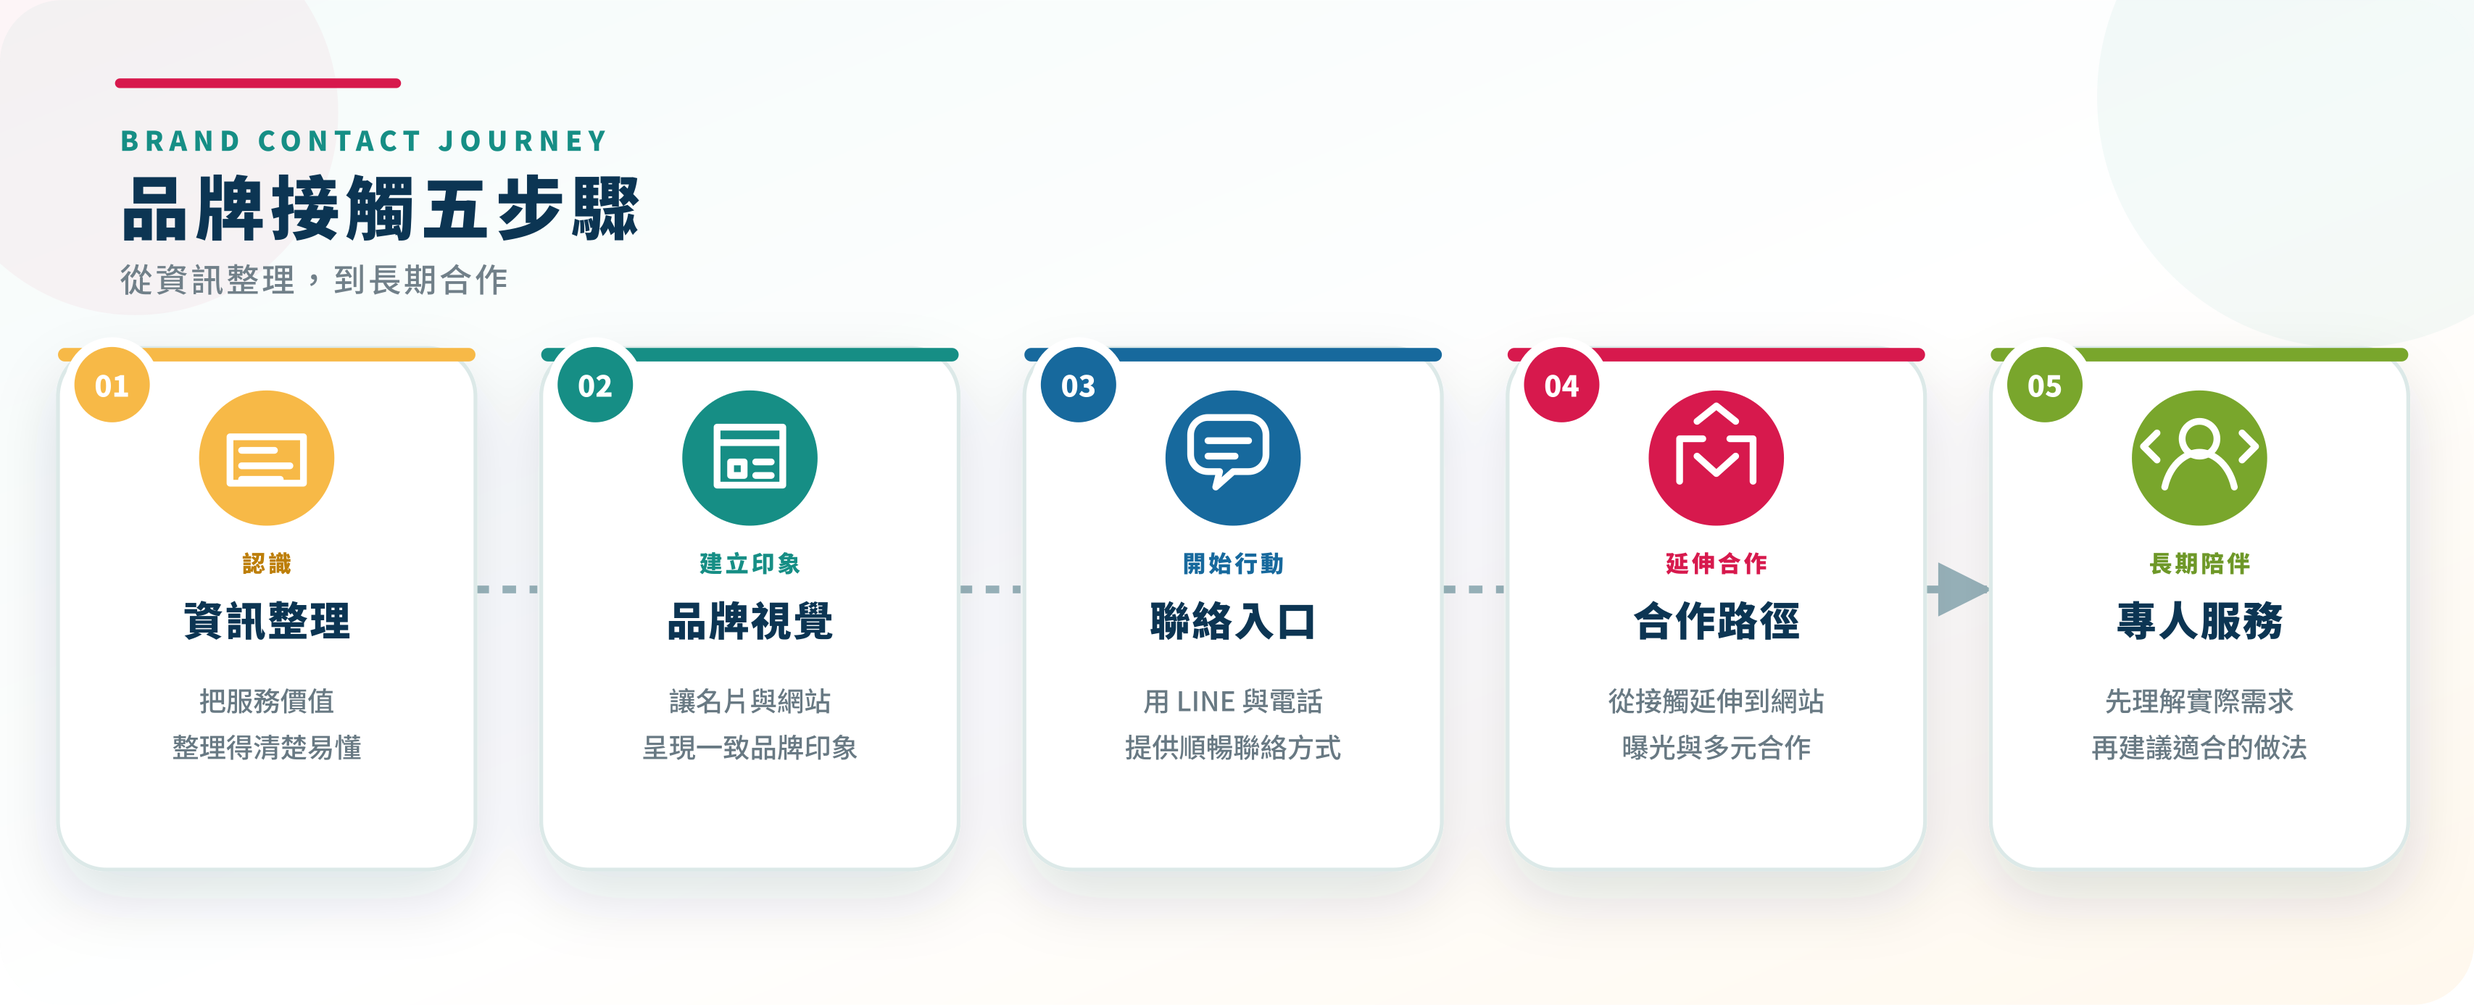
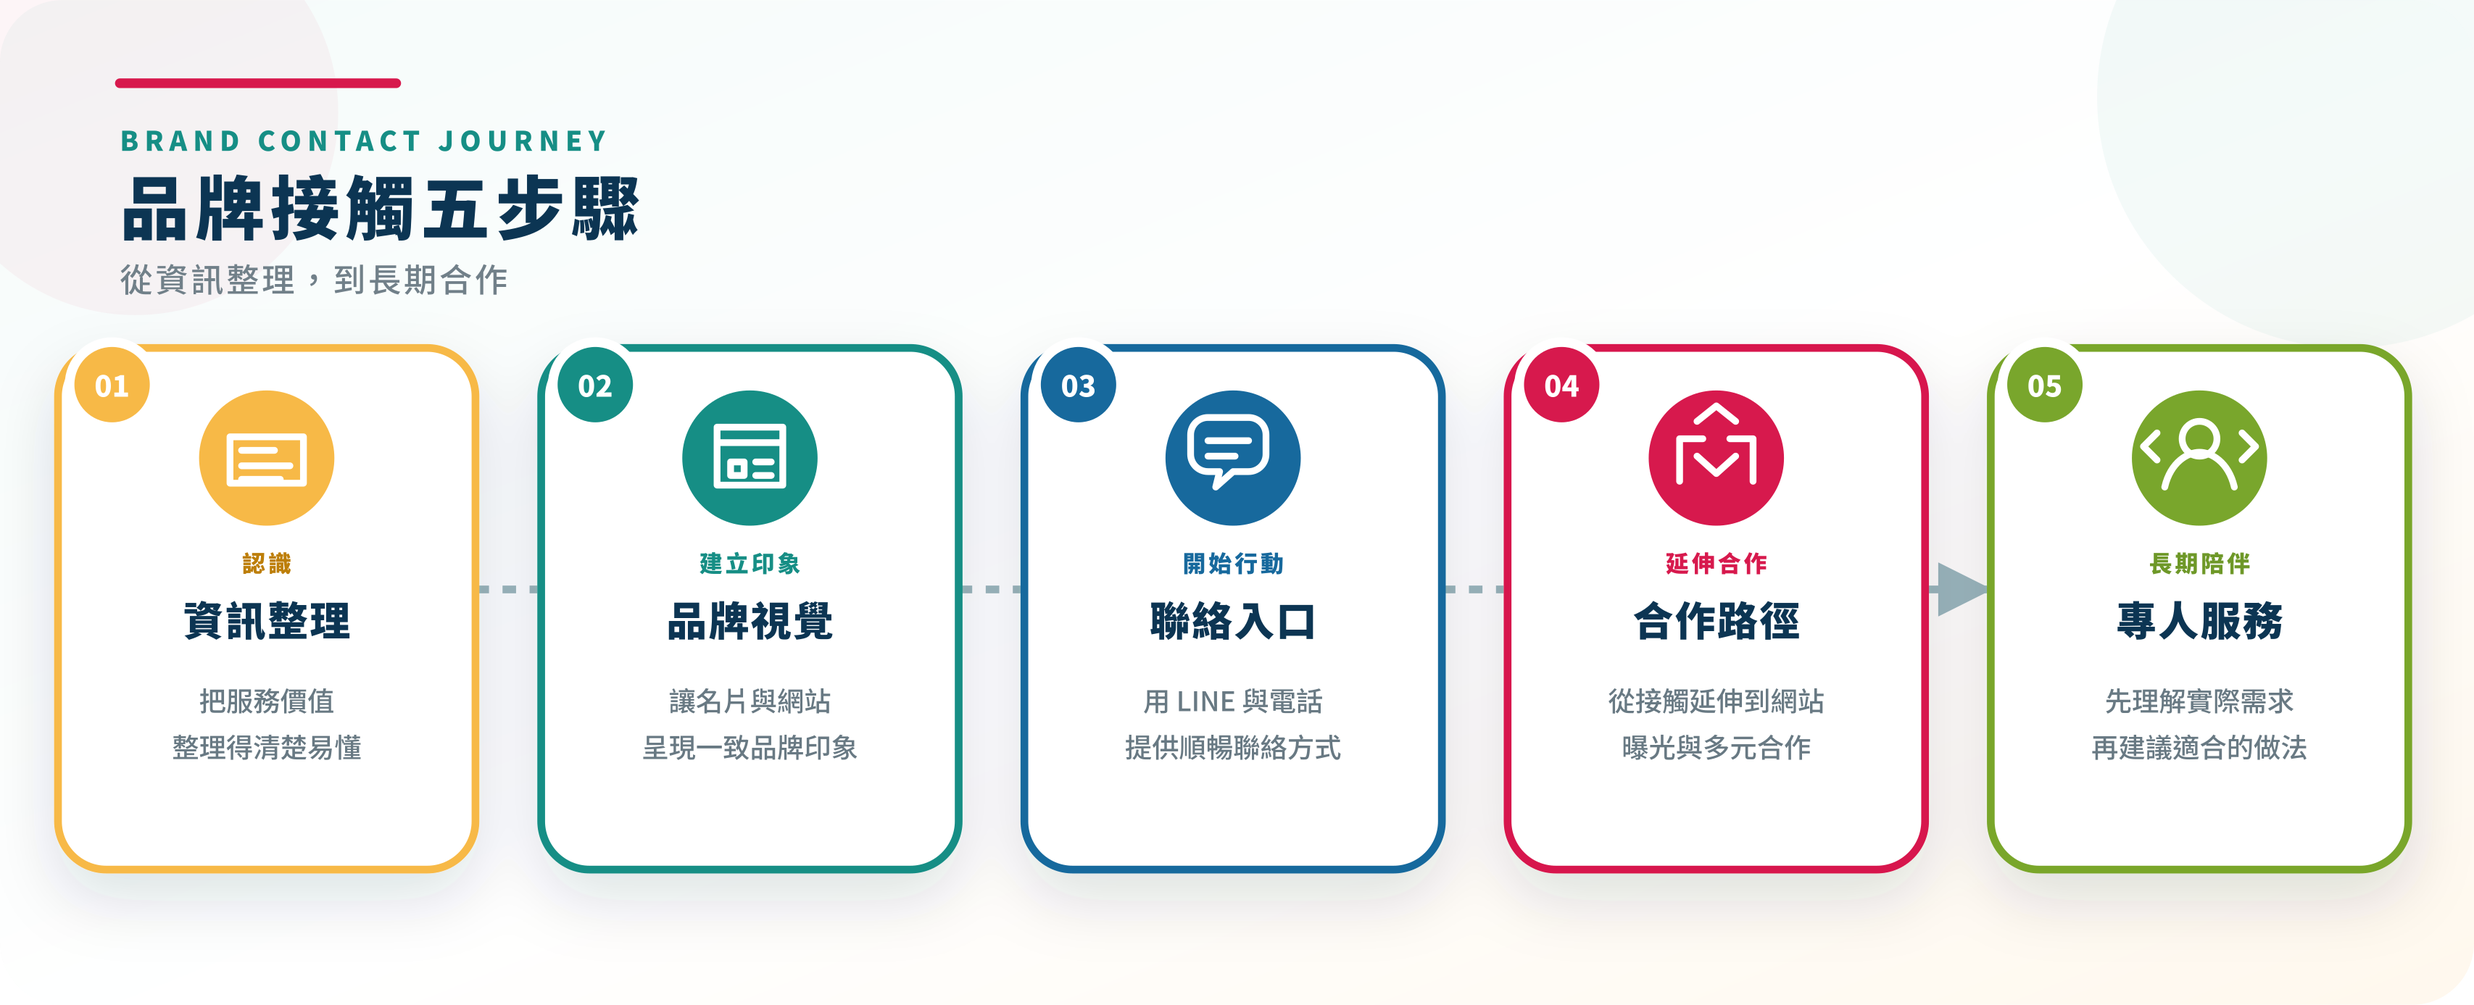
Add responsive diagram previews

diff --git a/styles.css b/styles.css
@@ -65,7 +65,7 @@
 .inner-hero{text-align:center;padding:125px 24px 110px;background:#f7f9f8}.inner-hero h1{max-width:1100px;margin-left:auto;margin-right:auto}.inner-hero>p{margin-left:auto;margin-right:auto}.service-hero,.partner-hero{min-height:650px;padding-top:110px;padding-bottom:110px}.cta-panel{border-radius:0;margin:0;padding:90px 30px}
 @media(max-width:1050px){.site-header>.primary.small{align-self:auto;border-radius:999px;padding:10px 18px}.tracker-hero{height:700px;min-height:700px}.tracker-hero-copy{padding-top:135px}.outline-title{font-size:70px}.one-view-grid{grid-template-columns:repeat(3,1fr)}.one-view-grid article:nth-child(3){border-right:0}.one-view-grid article{border-bottom:1px solid #e4e9e9}.case-showcase{grid-template-columns:1fr}.service-counter{grid-template-columns:repeat(2,1fr);gap:45px 0}.service-counter div:nth-child(2){border-right:0}}
 @media(max-width:680px){.tracker-hero{height:640px;min-height:640px}.tracker-hero-copy{padding-top:105px}.outline-title{font-size:43px;-webkit-text-stroke:1px #158f88}.tracker-hero h1{font-size:19px;line-height:1.7}.tracker-hero p{font-size:12px}.service-skyline{left:4%;right:4%;gap:7vw}.service-skyline span{width:45px;height:calc(var(--h) * .68)!important}.news-strip{grid-template-columns:92px 1fr;padding-right:15px}.news-strip strong{padding-left:20px}.news-strip span{padding-left:14px}.news-strip p,.news-strip button{display:none}.section-heading span{font-size:25px}.one-view-grid{grid-template-columns:1fr}.one-view-grid article{border-right:0}.case-showcase{padding:70px 20px}.case-visual{height:280px}.case-copy h2{font-size:34px}.service-counter{grid-template-columns:1fr 1fr;padding:70px 20px}.service-counter strong{font-size:50px}.service-counter span{font-size:13px}}
-@media(max-width:680px){.journey-flow-figure{margin-top:38px;overflow-x:auto;border-radius:18px}.journey-flow-figure img{width:1100px;max-width:none}.journey-flow-figure figcaption{position:sticky;left:0;width:100%;text-align:left}.mobile-flow-hint{display:block;margin-top:3px;color:#168e85;font-weight:700}}
+@media(max-width:680px){.journey-flow-figure{margin-top:38px;overflow:hidden;border-radius:18px}.journey-flow-figure img{width:100%;max-width:100%}.journey-flow-figure figcaption{position:static;width:auto;text-align:center}}
 
 /* V2.1: use the supplied PNG logo exactly and add generated website photography */
 .brand{height:58px;gap:7px;overflow:visible}
@@ -172,7 +172,7 @@
 .legal-visual strong{font-size:25px;margin-top:25px;position:relative;z-index:2}.legal-visual small{font-size:11px;letter-spacing:.2em;opacity:.72;position:relative;z-index:2}
 @media(max-width:1050px){.page-hero{padding-top:75px;padding-bottom:80px}.page-hero-media{height:430px;transform:none}.legal-visual{height:380px}}
 @media(max-width:680px){.page-hero{padding:58px 20px 64px;gap:38px}.page-hero-copy:before{width:58px;margin-bottom:20px}.page-hero-copy h1{font-size:41px}.page-hero-copy>p{font-size:16px}.hero-tags{margin-bottom:25px}.page-hero-media{height:300px;border-width:6px;border-radius:24px 7px 24px 7px}.legal-hero{padding-top:58px;padding-bottom:64px}.legal-visual{height:300px;border-radius:26px 8px 26px 8px}.legal-icon{width:92px;height:92px;font-size:34px}.legal-visual strong{font-size:20px}}
-@media(max-width:680px){.card-process-figure{margin-top:32px;overflow-x:auto;border-radius:18px}.card-process-figure img{width:790px;max-width:none}.card-process-figure figcaption{position:sticky;left:0;width:100%;text-align:left}.card-process-figure figcaption span{display:block;margin-top:3px;color:#168e85;font-weight:700}}
+@media(max-width:680px){.card-process-figure{margin-top:32px;overflow:hidden;border-radius:18px}.card-process-figure img{width:100%;max-width:100%}.card-process-figure figcaption{position:static;width:auto;text-align:center}}
 
 /* V2.9: image-led website feature cards with readable HTML copy */
 .website-feature-gallery{width:min(1180px,100%);margin:48px auto 0;display:grid;grid-template-columns:repeat(2,minmax(0,1fr));gap:24px}
@@ -212,7 +212,7 @@
 .exposure-process-figure img{display:block;width:100%;height:auto}
 .exposure-process-figure figcaption{padding:13px 20px;text-align:center;color:#6f7d83;background:#fff;font-size:12px;letter-spacing:.04em}
 .exposure-process-figure figcaption span{display:none}
-@media(max-width:680px){.exposure-process-figure{margin-top:32px;overflow-x:auto;border-radius:18px}.exposure-process-figure img{width:820px;max-width:none}.exposure-process-figure figcaption{position:sticky;left:0;width:100%;text-align:left}.exposure-process-figure figcaption span{display:block;margin-top:3px;color:#168e85;font-weight:700}}
+@media(max-width:680px){.exposure-process-figure{margin-top:32px;overflow:hidden;border-radius:18px}.exposure-process-figure img{width:100%;max-width:100%}.exposure-process-figure figcaption{position:static;width:auto;text-align:center}}
 
 /* V3.2: use the approved company logo as the partner-network hub */
 .center-node{padding:25px;background:white;border:3px solid rgba(8,112,74,.22);color:inherit;font-size:0;overflow:hidden}
@@ -233,4 +233,22 @@
 .service-journey-section{padding:86px clamp(24px,7vw,110px);background:linear-gradient(145deg,#061b2b,#0c3553)}
 .service-journey-figure{width:min(1280px,100%);margin:0 auto;overflow:hidden;border:1px solid rgba(255,255,255,.12);border-radius:30px;background:#071f31;box-shadow:0 30px 80px rgba(0,19,31,.34)}
 .service-journey-figure img{display:block;width:100%;height:auto}
-@media(max-width:680px){.service-journey-section{padding:52px 20px}.service-journey-figure{overflow-x:auto;border-radius:20px}.service-journey-figure img{width:900px;max-width:none}}
+@media(max-width:680px){.service-journey-section{padding:52px 20px}.service-journey-figure{overflow:hidden;border-radius:20px}.service-journey-figure img{width:100%;max-width:100%}}
+
+/* V3.6: responsive diagrams with a full-screen zoom preview */
+.diagram-preview-trigger{cursor:zoom-in}
+.diagram-preview-trigger:focus-visible{outline:4px solid var(--gold);outline-offset:4px}
+.diagram-lightbox{width:min(96vw,1440px);max-width:none;height:min(92dvh,940px);max-height:none;padding:0;border:0;border-radius:24px;background:#fff;box-shadow:0 30px 100px rgba(0,19,31,.45);overflow:hidden}
+.diagram-lightbox::backdrop{background:rgba(3,18,29,.82);backdrop-filter:blur(5px)}
+.diagram-lightbox-shell{height:100%;display:flex;flex-direction:column}
+.diagram-lightbox-toolbar{min-height:58px;padding:0 18px 0 24px;display:flex;align-items:center;justify-content:space-between;gap:16px;border-bottom:1px solid #dce6e8;background:#fff;color:var(--navy)}
+.diagram-lightbox-toolbar>div{display:flex;align-items:center;gap:10px}
+.diagram-zoom-toggle,.diagram-lightbox-close{border:0;cursor:pointer;font:inherit;font-weight:800}
+.diagram-zoom-toggle{padding:9px 18px;border-radius:999px;background:#eaf5f3;color:#08704a}
+.diagram-lightbox-close{width:40px;height:40px;border-radius:50%;background:#edf3f5;color:var(--navy);font-size:27px;line-height:1}
+.diagram-lightbox-stage{flex:1;min-height:0;padding:18px;display:flex;align-items:center;justify-content:center;overflow:auto;background:#eef4f5;scrollbar-width:none;overscroll-behavior:contain}
+.diagram-lightbox-stage::-webkit-scrollbar{display:none}
+.diagram-lightbox-stage img{display:block;width:100%;height:100%;max-width:100%;max-height:100%;object-fit:contain;cursor:zoom-in;touch-action:pan-x pan-y pinch-zoom}
+.diagram-lightbox-stage.is-zoomed{display:block}
+.diagram-lightbox-stage.is-zoomed img{width:1280px;height:auto;max-width:none;max-height:none;object-fit:initial;cursor:zoom-out}
+@media(max-width:680px){.diagram-lightbox{width:100vw;height:100dvh;border-radius:0}.diagram-lightbox-toolbar{min-height:54px;padding:0 12px 0 16px}.diagram-lightbox-toolbar strong{font-size:15px}.diagram-zoom-toggle{padding:8px 15px}.diagram-lightbox-close{width:38px;height:38px}.diagram-lightbox-stage{padding:10px}.diagram-lightbox-stage.is-zoomed img{width:1100px}}

diff --git a/index.html b/index.html
@@ -6,7 +6,7 @@
   <title>辰漮國際｜網站全頁草稿</title>
   <meta name="description" content="辰漮國際有限公司網站七頁視覺草稿">
   <!-- Search Console 正式驗證碼取得後，於此加入 google-site-verification meta。 -->
-  <link rel="stylesheet" href="styles.css?v=3.5">
+  <link rel="stylesheet" href="styles.css?v=3.6">
 </head>
 <body>
   <header class="site-header">
@@ -56,7 +56,6 @@
         <div class="section-heading"><span>ONE VIEW</span><h2>我們從品牌成長的角度思考</h2><p>不只做出工具，更讓每一個接觸點都有下一步。</p></div>
         <figure class="journey-flow-figure">
           <img src="diagram/brand-contact-flow/brand-contact-flow.svg" alt="辰漮國際品牌接觸流程圖：從資訊整理、品牌視覺、聯絡入口、合作路徑到專人服務，共五個步驟">
-          <figcaption>品牌接觸五步驟：從資訊整理，到長期合作。<span class="mobile-flow-hint">左右滑動查看完整流程 →</span></figcaption>
         </figure>
         <div class="center-action"><button class="outline-button" data-page-link="about">關於辰漮</button></div>
       </section>
@@ -87,7 +86,7 @@
     <section class="page" data-page="card">
       <div class="service-hero page-hero card-theme"><div class="page-hero-copy"><span class="eyebrow">DIGITAL BUSINESS CARD</span><h1>一張名片，<br><em>裝下完整的專業。</em></h1><p>不用安裝 App，掃描或點擊就能查看聯絡方式、服務資訊與社群連結。</p><div class="hero-tags"><span>免安裝</span><span>快速分享</span><span>集中資訊</span></div><button class="primary" data-page-link="cases">諮詢電子名片</button></div><figure class="service-photo page-hero-media"><img src="service-digital-card.png" alt="商務交流時展示電子名片的使用情境"><figcaption>電子名片情境示意</figcaption></figure></div>
       <section class="section"><div class="section-heading"><span>ONE CARD, MORE POSSIBILITIES</span><h2>讓客戶更快找到需要的資訊</h2></div><div class="feature-grid"><article><div class="icon">聯</div><h3>整合聯絡方式</h3><p>電話、LINE、Email 與社群集中呈現。</p></article><article><div class="icon">分</div><h3>隨時方便分享</h3><p>連結與 QR Code 都能快速傳遞。</p></article><article><div class="icon">牌</div><h3>呈現品牌形象</h3><p>統一色彩、文字與服務介紹。</p></article></div></section>
-      <section class="section soft"><div class="section-heading"><span>PROCESS</span><h2>製作流程</h2></div><figure class="card-process-figure"><img src="diagram/digital-card-process/digital-card-process.svg" alt="多頁式電子名片製作流程：提供資料、版面設計、確認修改、交付使用"><figcaption>多頁式電子名片四步驟製作流程<span>手機可左右滑動查看完整流程 →</span></figcaption></figure></section>
+      <section class="section soft"><div class="section-heading"><span>PROCESS</span><h2>製作流程</h2></div><figure class="card-process-figure"><img src="diagram/digital-card-process/digital-card-process.svg" alt="多頁式電子名片製作流程：提供資料、版面設計、確認修改、交付使用"><figcaption>多頁式電子名片四步驟製作流程</figcaption></figure></section>
     </section>
 
     <section class="page" data-page="website">
@@ -99,7 +98,7 @@
     <section class="page" data-page="exposure">
       <div class="service-hero page-hero exposure-theme"><div class="page-hero-copy"><span class="eyebrow">CHANNEL EXPOSURE</span><h1>讓好的服務，<br><em>被更多對的人看見。</em></h1><p>透過夥伴商店與合作通路，增加品牌、產品與服務的接觸機會。</p><div class="hero-tags"><span>夥伴商店</span><span>通路串連</span><span>精準接觸</span></div><button class="primary" data-page-link="cases">洽詢曝光合作</button></div><figure class="service-photo page-hero-media"><img src="channel-exposure.png" alt="品牌串連數位平台、實體商店與顧客接觸點的通路曝光情境"><figcaption>多通路曝光情境示意</figcaption></figure></div>
       <section class="section"><div class="exposure-map"><div class="center-node"><img src="logo-color-symbol.png" alt="辰漮國際彩色 Logo" width="124" height="124"></div><div class="node n1"><svg aria-hidden="true" viewBox="0 0 24 24"><path d="M3 9l2-5h14l2 5M5 9v11h14V9M9 20v-6h6v6M3 9c1.2 2 3.8 2 5 0 1.2 2 3.8 2 5 0 1.2 2 3.8 2 5 0 1.2 2 2.4 1.4 3 0"/></svg><strong>品牌商家</strong></div><div class="node n2"><svg aria-hidden="true" viewBox="0 0 24 24"><circle cx="12" cy="8" r="3"/><path d="M5 20c0-4.2 3.1-7 7-7s7 2.8 7 7M17 4l.7 1.4 1.6.2-1.2 1.1.3 1.6L17 7.5l-1.4.8.3-1.6-1.2-1.1 1.6-.2z"/></svg><strong>美安店主</strong></div><div class="node n3"><svg aria-hidden="true" viewBox="0 0 24 24"><circle cx="9" cy="9" r="3"/><circle cx="17" cy="10" r="2.5"/><path d="M2.5 20c0-4.2 2.9-7 6.5-7s6.5 2.8 6.5 7M14.5 14c.8-.7 1.7-1 2.8-1 2.8 0 4.7 2.4 4.7 5.5"/></svg><strong>顧客社群</strong></div><div class="node n4"><svg aria-hidden="true" viewBox="0 0 24 24"><rect x="5" y="3" width="14" height="18" rx="1"/><path d="M9 7h2M14 7h2M9 11h2M14 11h2M9 15h2M14 15h2M10 21v-3h4v3"/></svg><strong>合作場館</strong></div><svg aria-hidden="true" viewBox="0 0 800 420"><line x1="400" y1="210" x2="140" y2="90"/><line x1="400" y1="210" x2="660" y2="90"/><line x1="400" y1="210" x2="140" y2="330"/><line x1="400" y1="210" x2="660" y2="330"/></svg></div></section>
-      <section class="section soft"><div class="section-heading"><span>HOW IT WORKS</span><h2>通路曝光三步驟</h2></div><figure class="exposure-process-figure"><img src="diagram/channel-exposure-process/channel-exposure-process.svg" alt="通路曝光三步驟流程圖：確認適合對象、整理曝光內容、媒合合作通路"><figcaption>從確認目標客群、準備曝光素材，到串連適合的合作通路。<span>手機可左右滑動查看完整流程 →</span></figcaption></figure></section>
+      <section class="section soft"><div class="section-heading"><span>HOW IT WORKS</span><h2>通路曝光三步驟</h2></div><figure class="exposure-process-figure"><img src="diagram/channel-exposure-process/channel-exposure-process.svg" alt="通路曝光三步驟流程圖：確認適合對象、整理曝光內容、媒合合作通路"><figcaption>從確認目標客群、準備曝光素材，到串連適合的合作通路。</figcaption></figure></section>
     </section>
 
     <section class="page" data-page="partner">
@@ -160,9 +159,19 @@
     <div class="footer-bottom"><span>© 辰漮國際有限公司</span><div class="footer-legal"><button data-page-link="privacy">隱私權政策</button><i>｜</i><button data-page-link="terms">網站使用條款</button></div></div>
   </footer>
 
+  <dialog class="diagram-lightbox" id="diagram-lightbox" aria-labelledby="diagram-lightbox-title">
+    <div class="diagram-lightbox-shell">
+      <div class="diagram-lightbox-toolbar">
+        <strong id="diagram-lightbox-title">流程圖預覽</strong>
+        <div><button class="diagram-zoom-toggle" type="button">放大</button><button class="diagram-lightbox-close" type="button" aria-label="關閉流程圖預覽">×</button></div>
+      </div>
+      <div class="diagram-lightbox-stage"><img src="" alt=""></div>
+    </div>
+  </dialog>
+
   <button class="back-to-top" type="button" aria-label="回到頁面最上方"><span aria-hidden="true">↑</span></button>
 
   <script src="analytics.js"></script>
-  <script src="app.js"></script>
+  <script src="app.js?v=1.1"></script>
 </body>
 </html>

diff --git a/app.js b/app.js
@@ -3,6 +3,11 @@ const links = [...document.querySelectorAll('[data-page-link]')];
 const mobileMenuButton = document.querySelector('.mobile-menu-btn');
 const mobileNav = document.querySelector('.mobile-nav');
 const backToTopButton = document.querySelector('.back-to-top');
+const diagramLightbox = document.querySelector('#diagram-lightbox');
+const diagramLightboxImage = diagramLightbox?.querySelector('img');
+const diagramLightboxStage = diagramLightbox?.querySelector('.diagram-lightbox-stage');
+const diagramZoomToggle = diagramLightbox?.querySelector('.diagram-zoom-toggle');
+const diagramLightboxClose = diagramLightbox?.querySelector('.diagram-lightbox-close');
 
 const reduceMotion = window.matchMedia('(prefers-reduced-motion: reduce)').matches;
 const motionTargets = [...document.querySelectorAll([
@@ -82,5 +87,58 @@ backToTopButton.addEventListener('click', () => window.scrollTo({ top: 0, behavi
 window.addEventListener('scroll', () => {
   backToTopButton.classList.toggle('visible', window.scrollY > 420);
 }, { passive: true });
+
+const diagramImages = [...document.querySelectorAll([
+  '.journey-flow-figure img',
+  '.card-process-figure img',
+  '.exposure-process-figure img',
+  '.service-journey-figure img'
+].join(','))];
+
+function setDiagramZoom(isZoomed) {
+  diagramLightboxStage?.classList.toggle('is-zoomed', isZoomed);
+  if (diagramZoomToggle) {
+    diagramZoomToggle.textContent = isZoomed ? '還原' : '放大';
+    diagramZoomToggle.setAttribute('aria-pressed', String(isZoomed));
+  }
+  if (!isZoomed && diagramLightboxStage) {
+    diagramLightboxStage.scrollTop = 0;
+    diagramLightboxStage.scrollLeft = 0;
+  }
+}
+
+function openDiagramLightbox(image) {
+  if (!diagramLightbox || !diagramLightboxImage) return;
+  diagramLightboxImage.src = image.currentSrc || image.src;
+  diagramLightboxImage.alt = image.alt;
+  setDiagramZoom(false);
+  diagramLightbox.showModal();
+}
+
+diagramImages.forEach((image) => {
+  image.classList.add('diagram-preview-trigger');
+  image.tabIndex = 0;
+  image.setAttribute('role', 'button');
+  image.setAttribute('aria-label', `${image.alt}，點擊放大查看`);
+  image.addEventListener('click', () => openDiagramLightbox(image));
+  image.addEventListener('keydown', (event) => {
+    if (event.key !== 'Enter' && event.key !== ' ') return;
+    event.preventDefault();
+    openDiagramLightbox(image);
+  });
+});
+
+diagramZoomToggle?.addEventListener('click', () => {
+  setDiagramZoom(!diagramLightboxStage?.classList.contains('is-zoomed'));
+});
+diagramLightboxImage?.addEventListener('click', () => {
+  setDiagramZoom(!diagramLightboxStage?.classList.contains('is-zoomed'));
+});
+diagramLightboxClose?.addEventListener('click', () => diagramLightbox?.close());
+diagramLightbox?.addEventListener('click', (event) => {
+  if (event.target === diagramLightbox) diagramLightbox.close();
+});
+diagramLightbox?.addEventListener('close', () => setDiagramZoom(false));
+
 window.addEventListener('hashchange', () => showPage(location.hash.slice(1) || 'home', false));
 showPage(location.hash.slice(1) || 'home', false);
